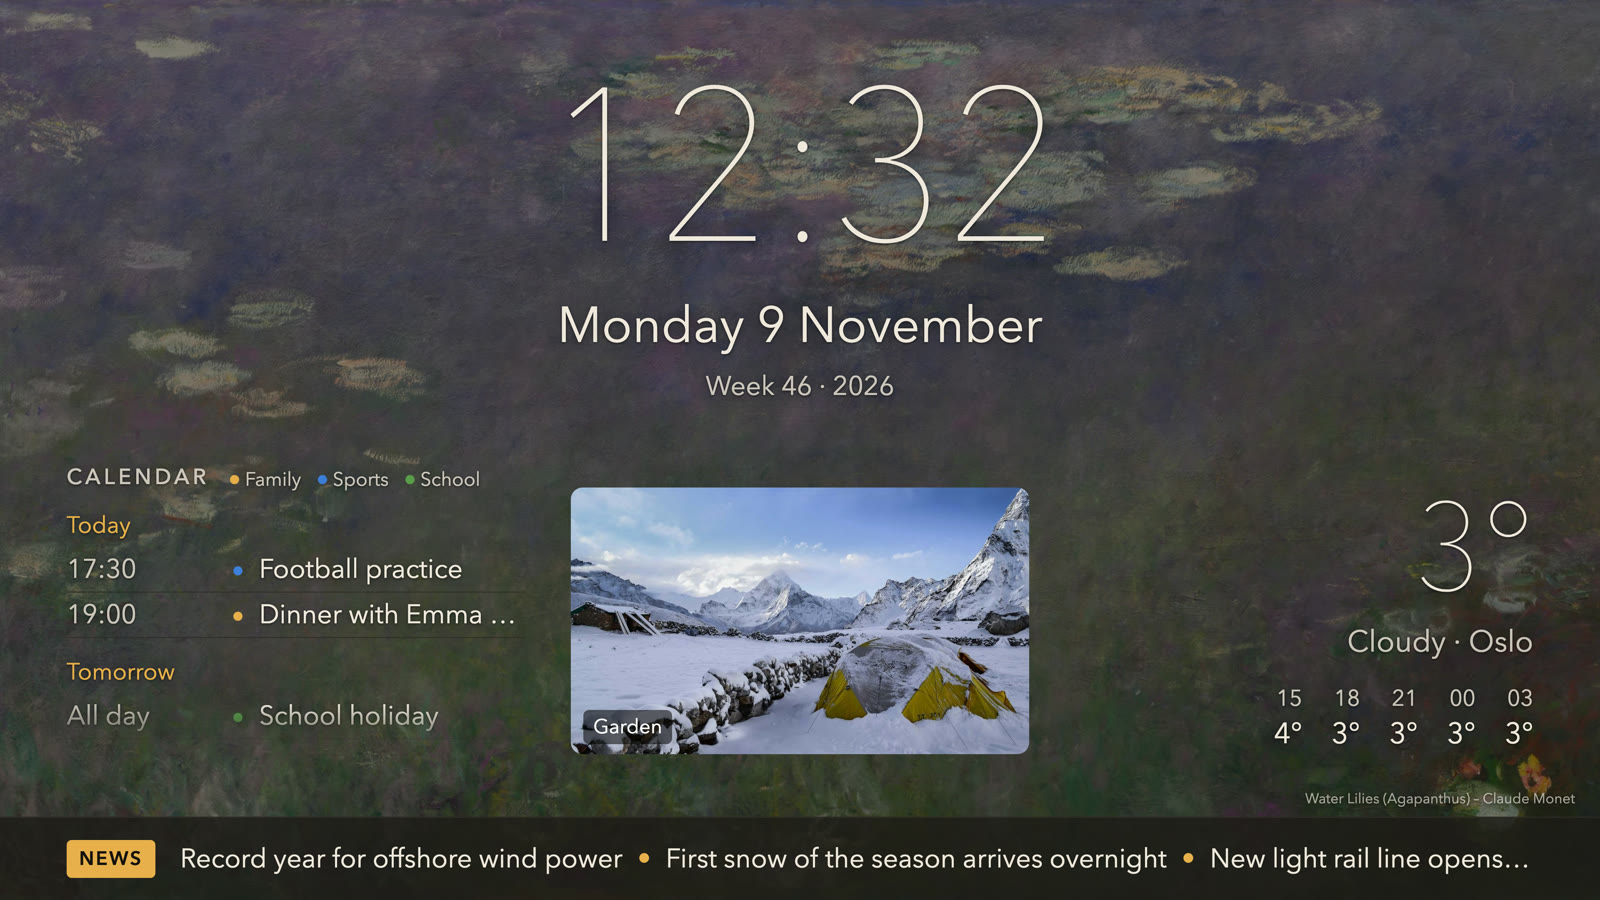
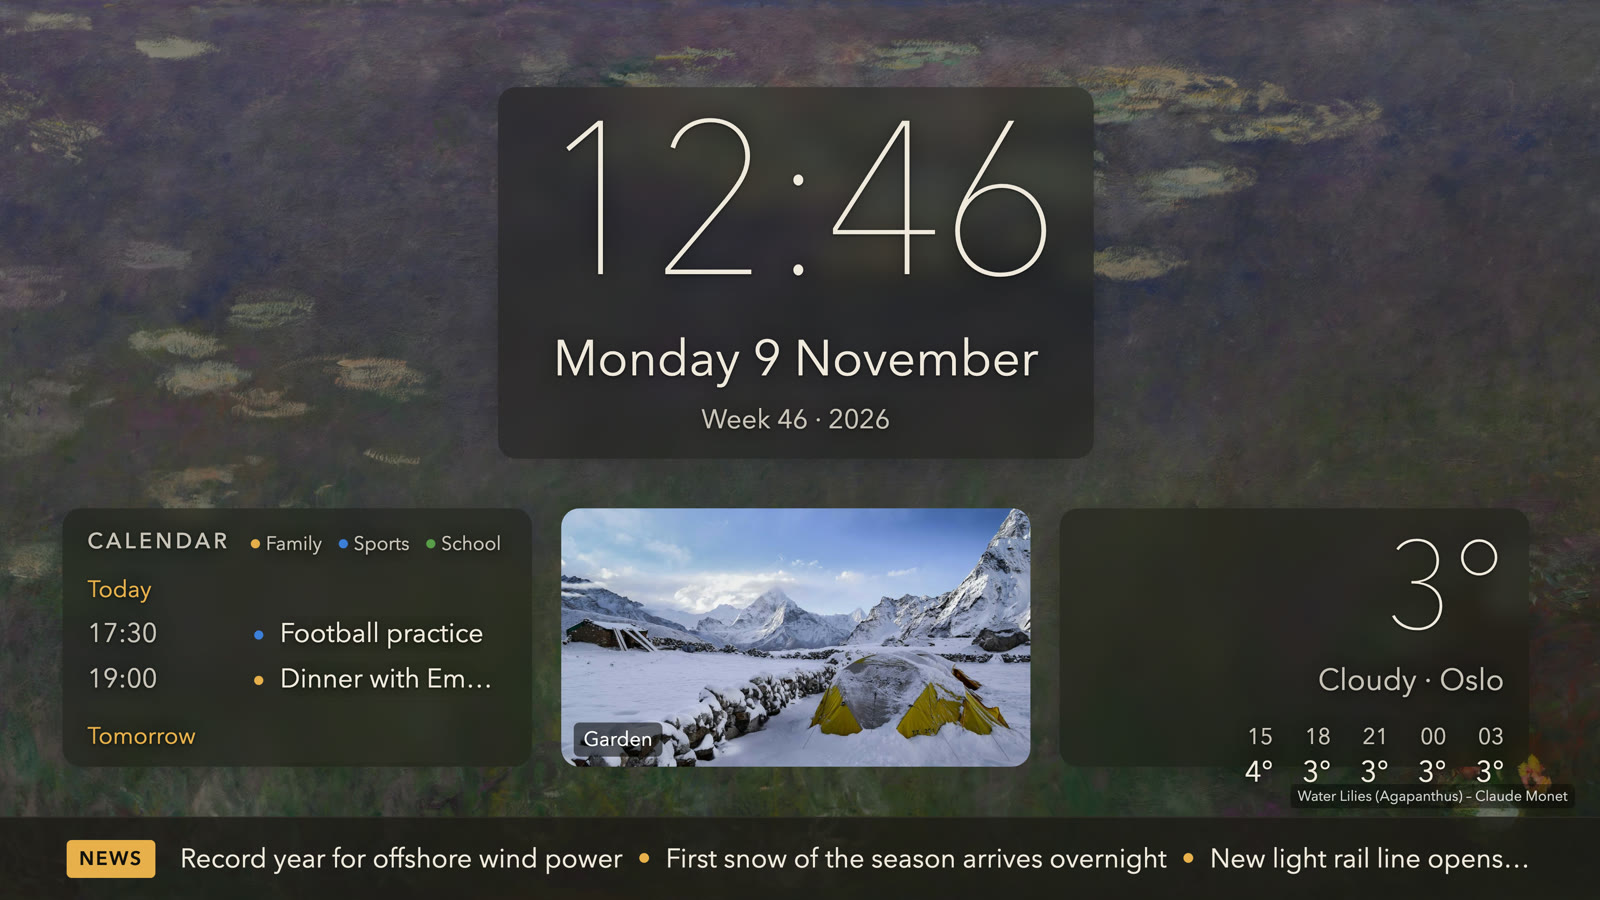
1.0.2: symmetric layouts
Equal columns and panel heights in all layouts; camera layout clock
scales to fit; refreshed screenshots.

diff --git a/frame_canvas/app/dashboard.html b/frame_canvas/app/dashboard.html
@@ -62,28 +62,37 @@
   .ticker .items i { color: var(--accent); font-style: normal; padding: 0 36px; }
   body.ticker-top .ticker { order: -1; border-top: 0; border-bottom: 3px solid var(--line); }
 
-  /* ---------- layouter ---------- */
-  body.l-klassisk main { grid-template-columns: 1.15fr 1fr; grid-template-rows: auto 1fr;
+  /* ---------- layouter (symmetriske rutenett: like kolonner, like høye rader) ---------- */
+  main { gap: 70px; }
+  body.l-klassisk main { grid-template-columns: 1fr 1fr; grid-template-rows: auto minmax(0, 1fr);
                          grid-template-areas: "clock weather" "cal cams"; }
-  body.l-klassisk .weather { justify-self: end; text-align: right; }
+  body.l-klassisk .weather { text-align: right; }
   body.l-klassisk .weather .wnext { justify-content: flex-end; }
 
-  body.l-sentrert main { grid-template-columns: 1fr 1fr; grid-template-rows: 1fr auto;
+  body.l-sentrert main { grid-template-columns: 1fr 1fr; grid-template-rows: minmax(0, 1fr) 620px;
                          grid-template-areas: "clock clock" "cal weather"; }
-  body.l-sentrert .clock { align-self: center; text-align: center; }
-  body.l-sentrert .weather { justify-self: end; text-align: right; align-self: end; }
-  body.l-sentrert .weather .wnext { justify-content: flex-end; }
-  body.l-sentrert .cal { max-height: 700px; }
   body.l-sentrert.has-cams main { grid-template-columns: 1fr 1fr 1fr; grid-template-areas: "clock clock clock" "cal cams weather"; }
-  body.l-sentrert .cams { height: 640px; align-self: end; }
+  body.l-sentrert .clock { align-self: center; justify-self: center; text-align: center; }
+  body.l-sentrert .weather { text-align: right; }
+  body.l-sentrert .weather .wnext { justify-content: flex-end; }
 
-  body.l-kamera main { grid-template-columns: 2fr 1fr; grid-template-rows: auto auto 1fr;
+  body.l-kamera main { grid-template-columns: 2fr 1fr; grid-template-rows: auto auto minmax(0, 1fr);
                        grid-template-areas: "cams clock" "cams weather" "cams cal"; }
   body.l-kamera .weather .temp { font-size: 200px; }
+  /* smal høyrekolonne: mindre klokke så den får plass, og kalenderen får rom */
+  body.l-kamera.c-stor .time { font-size: 300px; letter-spacing: -6px; }
+  body.l-kamera.c-medium .time { font-size: 250px; letter-spacing: -5px; }
+  body.l-kamera.c-liten .time { font-size: 200px; letter-spacing: -4px; }
+  body.l-kamera .clock .date { font-size: 84px; } body.l-kamera .clock .sub { font-size: 50px; }
+  body.l-kamera .weather .wnext { gap: 50px; }
+  body.l-kamera main { gap: 50px; }
+  body.has-bg.panels.l-kamera .clock, body.has-bg.panels.l-kamera .weather, body.has-bg.panels.l-kamera .cal { padding: 34px 48px; }
+  body.l-kamera .weather .wnext { margin-top: 30px; }
 
   body.l-minimal main { grid-template-columns: 1fr; grid-template-areas: "clock"; place-items: center; }
   body.l-minimal .clock { text-align: center; }
   body.l-minimal .weather, body.l-minimal .cal, body.l-minimal .cams { display: none; }
+  .cams { gap: 50px; }
 
   .clock { grid-area: clock; } .weather { grid-area: weather; } .cal { grid-area: cal; } .cams { grid-area: cams; }
   /* ---------- skrifttykkelse ---------- */
@@ -106,9 +115,11 @@
     background: color-mix(in srgb, var(--bg) 42%, transparent);
     -webkit-backdrop-filter: blur(30px) saturate(1.15); backdrop-filter: blur(30px) saturate(1.15);
     border-radius: 44px; padding: 44px 60px; box-shadow: 0 10px 60px rgba(0,0,0,.18); }
-  body.has-bg.panels .clock { width: fit-content; }
-  body.has-bg.panels.l-sentrert .clock, body.has-bg.panels.l-minimal .clock { justify-self: center; }
-  body.has-bg.panels .weather { width: fit-content; }
+  /* platene fyller cellen sin, så platene på samme rad blir like store */
+  body.has-bg.panels .weather, body.has-bg.panels .cal, body.has-bg.panels.l-klassisk .clock,
+  body.has-bg.panels.l-kamera .clock { justify-self: stretch; align-self: stretch; min-width: 0; }
+  body.has-bg.panels.l-sentrert .clock, body.has-bg.panels.l-minimal .clock { width: fit-content; justify-self: center; padding: 50px 90px; }
+  body.has-bg.panels .cam { border-radius: 44px; }
   body.has-bg.panels .cal { -webkit-mask-image: none; mask-image: none; }
   body.has-bg.t-natt { --text: #ececec; --muted: #c4c4c4; --accent: #e0896d; }
   body.has-bg #credit { background: rgba(0,0,0,.45); color: #eee; padding: 6px 18px; border-radius: 12px; opacity: .85; }

diff --git a/frame_canvas/CHANGELOG.md b/frame_canvas/CHANGELOG.md
@@ -1,5 +1,9 @@
 # Changelog
 
+## 1.0.2
+- Symmetric layouts: equal columns and equal-height panels in every layout.
+- Camera layout: clock scales to fit the side column, more room for the calendar.
+
 ## 1.0.0
 - First public release: 4 layouts, 5 themes, photo/painting backgrounds, calendars, cameras,
   news ticker, radio, presence control, TV discovery, English and Norwegian.
